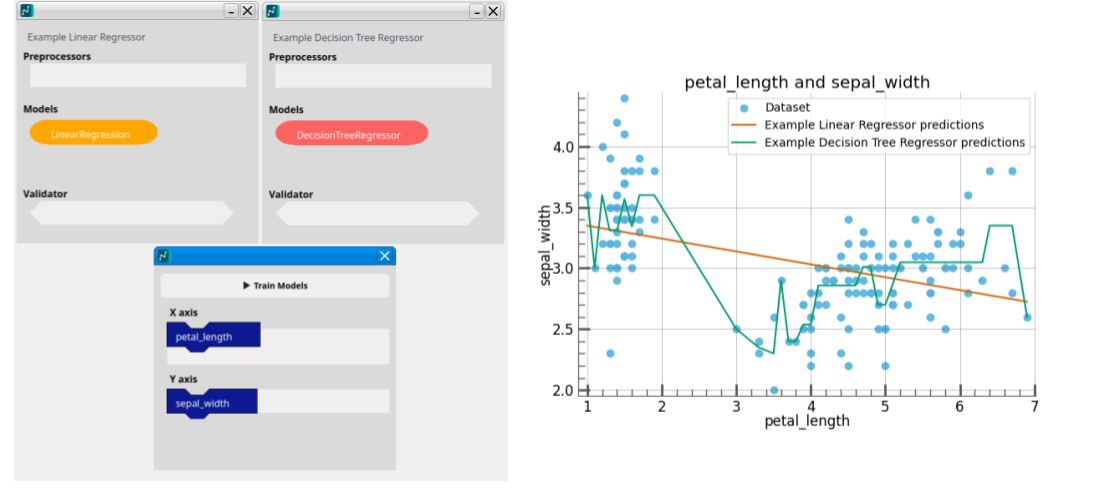
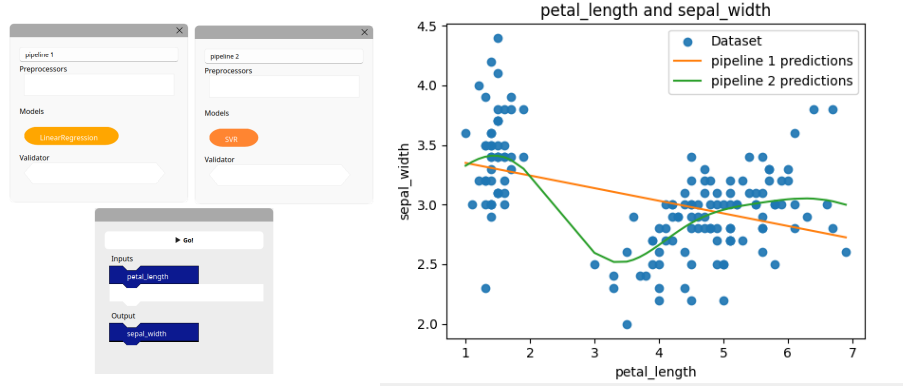
feat : update paper.

diff --git a/src/datascratch/descriptor_statistics_popup.py b/src/datascratch/descriptor_statistics_popup.py
@@ -44,7 +44,6 @@ class NumericalDescriptor(QtW.QWidget):
                     self.highest_rounding = max(self.highest_rounding , len(nums_digits_split[1]))
                 return curr_value
             col.apply(gather_highest_rounding)
-            print("Highets roudning" , self.highest_rounding)
         except:
             self.highest_rounding = 5
 

diff --git a/paper.md b/paper.md
@@ -58,7 +58,7 @@ Scratch was constructed on 4 pillars, which makes up it's main philosophy.  Data
 1. **Passion** Learners are more motivated when they are learning things that they care about. To follow this pillar, DataFlippers uses crafted example datasets, which focus on topics that are intriguing to children. This is discussed more in the educational materials section. 
 2. **Peers** DataFlippers is intended to be shared with friends. For this purpose DataFlippers has it's own file type, and every chart and graph has the ability to be inspected and saved and shared. 
 3. **Play** The drag a drop nature implies a certain type of play. This makes is easy to novices to quickly try things, without the overhead of writing code. 
-4. **Projects** DataFlippers is focused around datasets, allowing for novices to center machine learning projects around a specific dataset. 
+4. **Projects** DataFlippers is focused around datasets, allowing for novices to create their own machine learnings projects. 
 
 ## Drag and drop design
 The drag and drop interface is designed to reduce the syntactic complexity of programming down to drag and drop blocks, with the layout and design imitating underlying python libraries. This ensures that users have an low floor to learning, while also paving the way for them to transition to writing code later. 
